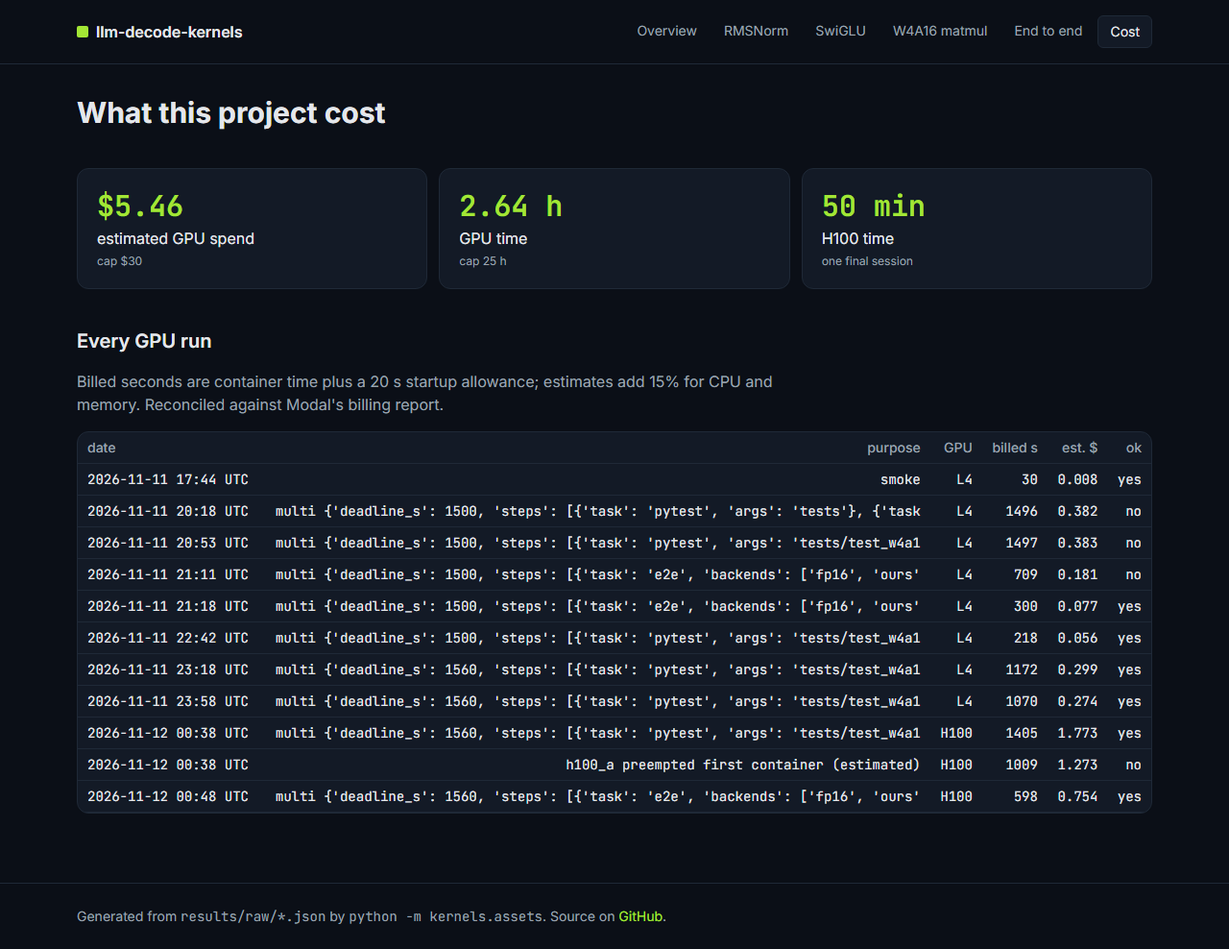
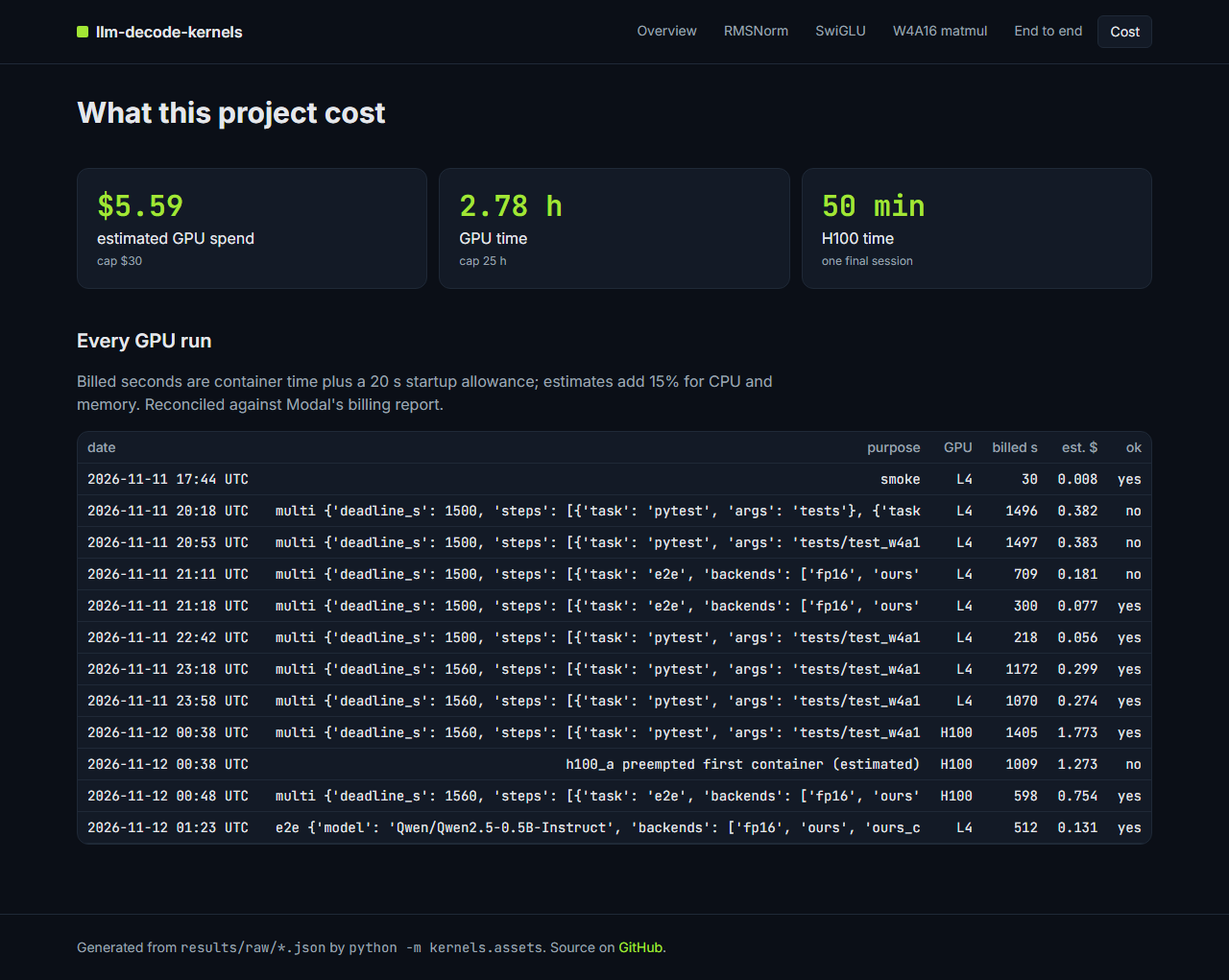
Model-size comparison in README and site (stretch 2)

diff --git a/site/cost.html b/site/cost.html
@@ -31,7 +31,7 @@ tailwind.config = { theme: { extend: {
   </div>
 </header>
 <main class="max-w-6xl mx-auto px-4 py-8 space-y-10">
-<h1 class="text-3xl font-bold">What this project cost</h1><div class="grid sm:grid-cols-3 gap-3"><div class="bg-panel border border-line rounded-xl p-5"><div class="font-mono text-3xl font-semibold text-accent">$5.46</div><div class="mt-1 text-ink">estimated GPU spend</div><div class="mt-1 text-xs text-muted">cap $30</div></div><div class="bg-panel border border-line rounded-xl p-5"><div class="font-mono text-3xl font-semibold text-accent">2.64 h</div><div class="mt-1 text-ink">GPU time</div><div class="mt-1 text-xs text-muted">cap 25 h</div></div><div class="bg-panel border border-line rounded-xl p-5"><div class="font-mono text-3xl font-semibold text-accent">50 min</div><div class="mt-1 text-ink">H100 time</div><div class="mt-1 text-xs text-muted">one final session</div></div></div><section class="space-y-4"><h2 class="text-xl font-semibold">Every GPU run</h2><p class="text-muted max-w-3xl">Billed seconds are container time plus a 20 s startup allowance; estimates add 15% for CPU and memory. Reconciled against Modal's billing report.</p><div class="overflow-x-auto bg-panel border border-line rounded-xl"><table class="w-full text-sm"><thead><tr><th class='text-muted font-medium'>date</th><th class='text-muted font-medium'>purpose</th><th class='text-muted font-medium'>GPU</th><th class='text-muted font-medium'>billed s</th><th class='text-muted font-medium'>est. $</th><th class='text-muted font-medium'>ok</th></tr></thead><tbody><tr><td class='font-mono'>2026-11-11 17:44 UTC</td><td class='font-mono'>smoke</td><td class='font-mono'>L4</td><td class='font-mono'>30</td><td class='font-mono'>0.008</td><td class='font-mono'>yes</td></tr><tr><td class='font-mono'>2026-11-11 20:18 UTC</td><td class='font-mono'>multi {&#x27;deadline_s&#x27;: 1500, &#x27;steps&#x27;: [{&#x27;task&#x27;: &#x27;pytest&#x27;, &#x27;args&#x27;: &#x27;tests&#x27;}, {&#x27;task</td><td class='font-mono'>L4</td><td class='font-mono'>1496</td><td class='font-mono'>0.382</td><td class='font-mono'>no</td></tr><tr><td class='font-mono'>2026-11-11 20:53 UTC</td><td class='font-mono'>multi {&#x27;deadline_s&#x27;: 1500, &#x27;steps&#x27;: [{&#x27;task&#x27;: &#x27;pytest&#x27;, &#x27;args&#x27;: &#x27;tests/test_w4a1</td><td class='font-mono'>L4</td><td class='font-mono'>1497</td><td class='font-mono'>0.383</td><td class='font-mono'>no</td></tr><tr><td class='font-mono'>2026-11-11 21:11 UTC</td><td class='font-mono'>multi {&#x27;deadline_s&#x27;: 1500, &#x27;steps&#x27;: [{&#x27;task&#x27;: &#x27;e2e&#x27;, &#x27;backends&#x27;: [&#x27;fp16&#x27;, &#x27;ours&#x27;</td><td class='font-mono'>L4</td><td class='font-mono'>709</td><td class='font-mono'>0.181</td><td class='font-mono'>no</td></tr><tr><td class='font-mono'>2026-11-11 21:18 UTC</td><td class='font-mono'>multi {&#x27;deadline_s&#x27;: 1500, &#x27;steps&#x27;: [{&#x27;task&#x27;: &#x27;e2e&#x27;, &#x27;backends&#x27;: [&#x27;fp16&#x27;, &#x27;ours&#x27;</td><td class='font-mono'>L4</td><td class='font-mono'>300</td><td class='font-mono'>0.077</td><td class='font-mono'>yes</td></tr><tr><td class='font-mono'>2026-11-11 22:42 UTC</td><td class='font-mono'>multi {&#x27;deadline_s&#x27;: 1500, &#x27;steps&#x27;: [{&#x27;task&#x27;: &#x27;pytest&#x27;, &#x27;args&#x27;: &#x27;tests/test_w4a1</td><td class='font-mono'>L4</td><td class='font-mono'>218</td><td class='font-mono'>0.056</td><td class='font-mono'>yes</td></tr><tr><td class='font-mono'>2026-11-11 23:18 UTC</td><td class='font-mono'>multi {&#x27;deadline_s&#x27;: 1560, &#x27;steps&#x27;: [{&#x27;task&#x27;: &#x27;pytest&#x27;, &#x27;args&#x27;: &#x27;tests/test_w4a1</td><td class='font-mono'>L4</td><td class='font-mono'>1172</td><td class='font-mono'>0.299</td><td class='font-mono'>yes</td></tr><tr><td class='font-mono'>2026-11-11 23:58 UTC</td><td class='font-mono'>multi {&#x27;deadline_s&#x27;: 1560, &#x27;steps&#x27;: [{&#x27;task&#x27;: &#x27;pytest&#x27;, &#x27;args&#x27;: &#x27;tests/test_w4a1</td><td class='font-mono'>L4</td><td class='font-mono'>1070</td><td class='font-mono'>0.274</td><td class='font-mono'>yes</td></tr><tr><td class='font-mono'>2026-11-12 00:38 UTC</td><td class='font-mono'>multi {&#x27;deadline_s&#x27;: 1560, &#x27;steps&#x27;: [{&#x27;task&#x27;: &#x27;pytest&#x27;, &#x27;args&#x27;: &#x27;tests/test_w4a1</td><td class='font-mono'>H100</td><td class='font-mono'>1405</td><td class='font-mono'>1.773</td><td class='font-mono'>yes</td></tr><tr><td class='font-mono'>2026-11-12 00:38 UTC</td><td class='font-mono'>h100_a preempted first container (estimated)</td><td class='font-mono'>H100</td><td class='font-mono'>1009</td><td class='font-mono'>1.273</td><td class='font-mono'>no</td></tr><tr><td class='font-mono'>2026-11-12 00:48 UTC</td><td class='font-mono'>multi {&#x27;deadline_s&#x27;: 1560, &#x27;steps&#x27;: [{&#x27;task&#x27;: &#x27;e2e&#x27;, &#x27;backends&#x27;: [&#x27;fp16&#x27;, &#x27;ours&#x27;</td><td class='font-mono'>H100</td><td class='font-mono'>598</td><td class='font-mono'>0.754</td><td class='font-mono'>yes</td></tr></tbody></table></div></section>
+<h1 class="text-3xl font-bold">What this project cost</h1><div class="grid sm:grid-cols-3 gap-3"><div class="bg-panel border border-line rounded-xl p-5"><div class="font-mono text-3xl font-semibold text-accent">$5.59</div><div class="mt-1 text-ink">estimated GPU spend</div><div class="mt-1 text-xs text-muted">cap $30</div></div><div class="bg-panel border border-line rounded-xl p-5"><div class="font-mono text-3xl font-semibold text-accent">2.78 h</div><div class="mt-1 text-ink">GPU time</div><div class="mt-1 text-xs text-muted">cap 25 h</div></div><div class="bg-panel border border-line rounded-xl p-5"><div class="font-mono text-3xl font-semibold text-accent">50 min</div><div class="mt-1 text-ink">H100 time</div><div class="mt-1 text-xs text-muted">one final session</div></div></div><section class="space-y-4"><h2 class="text-xl font-semibold">Every GPU run</h2><p class="text-muted max-w-3xl">Billed seconds are container time plus a 20 s startup allowance; estimates add 15% for CPU and memory. Reconciled against Modal's billing report.</p><div class="overflow-x-auto bg-panel border border-line rounded-xl"><table class="w-full text-sm"><thead><tr><th class='text-muted font-medium'>date</th><th class='text-muted font-medium'>purpose</th><th class='text-muted font-medium'>GPU</th><th class='text-muted font-medium'>billed s</th><th class='text-muted font-medium'>est. $</th><th class='text-muted font-medium'>ok</th></tr></thead><tbody><tr><td class='font-mono'>2026-11-11 17:44 UTC</td><td class='font-mono'>smoke</td><td class='font-mono'>L4</td><td class='font-mono'>30</td><td class='font-mono'>0.008</td><td class='font-mono'>yes</td></tr><tr><td class='font-mono'>2026-11-11 20:18 UTC</td><td class='font-mono'>multi {&#x27;deadline_s&#x27;: 1500, &#x27;steps&#x27;: [{&#x27;task&#x27;: &#x27;pytest&#x27;, &#x27;args&#x27;: &#x27;tests&#x27;}, {&#x27;task</td><td class='font-mono'>L4</td><td class='font-mono'>1496</td><td class='font-mono'>0.382</td><td class='font-mono'>no</td></tr><tr><td class='font-mono'>2026-11-11 20:53 UTC</td><td class='font-mono'>multi {&#x27;deadline_s&#x27;: 1500, &#x27;steps&#x27;: [{&#x27;task&#x27;: &#x27;pytest&#x27;, &#x27;args&#x27;: &#x27;tests/test_w4a1</td><td class='font-mono'>L4</td><td class='font-mono'>1497</td><td class='font-mono'>0.383</td><td class='font-mono'>no</td></tr><tr><td class='font-mono'>2026-11-11 21:11 UTC</td><td class='font-mono'>multi {&#x27;deadline_s&#x27;: 1500, &#x27;steps&#x27;: [{&#x27;task&#x27;: &#x27;e2e&#x27;, &#x27;backends&#x27;: [&#x27;fp16&#x27;, &#x27;ours&#x27;</td><td class='font-mono'>L4</td><td class='font-mono'>709</td><td class='font-mono'>0.181</td><td class='font-mono'>no</td></tr><tr><td class='font-mono'>2026-11-11 21:18 UTC</td><td class='font-mono'>multi {&#x27;deadline_s&#x27;: 1500, &#x27;steps&#x27;: [{&#x27;task&#x27;: &#x27;e2e&#x27;, &#x27;backends&#x27;: [&#x27;fp16&#x27;, &#x27;ours&#x27;</td><td class='font-mono'>L4</td><td class='font-mono'>300</td><td class='font-mono'>0.077</td><td class='font-mono'>yes</td></tr><tr><td class='font-mono'>2026-11-11 22:42 UTC</td><td class='font-mono'>multi {&#x27;deadline_s&#x27;: 1500, &#x27;steps&#x27;: [{&#x27;task&#x27;: &#x27;pytest&#x27;, &#x27;args&#x27;: &#x27;tests/test_w4a1</td><td class='font-mono'>L4</td><td class='font-mono'>218</td><td class='font-mono'>0.056</td><td class='font-mono'>yes</td></tr><tr><td class='font-mono'>2026-11-11 23:18 UTC</td><td class='font-mono'>multi {&#x27;deadline_s&#x27;: 1560, &#x27;steps&#x27;: [{&#x27;task&#x27;: &#x27;pytest&#x27;, &#x27;args&#x27;: &#x27;tests/test_w4a1</td><td class='font-mono'>L4</td><td class='font-mono'>1172</td><td class='font-mono'>0.299</td><td class='font-mono'>yes</td></tr><tr><td class='font-mono'>2026-11-11 23:58 UTC</td><td class='font-mono'>multi {&#x27;deadline_s&#x27;: 1560, &#x27;steps&#x27;: [{&#x27;task&#x27;: &#x27;pytest&#x27;, &#x27;args&#x27;: &#x27;tests/test_w4a1</td><td class='font-mono'>L4</td><td class='font-mono'>1070</td><td class='font-mono'>0.274</td><td class='font-mono'>yes</td></tr><tr><td class='font-mono'>2026-11-12 00:38 UTC</td><td class='font-mono'>multi {&#x27;deadline_s&#x27;: 1560, &#x27;steps&#x27;: [{&#x27;task&#x27;: &#x27;pytest&#x27;, &#x27;args&#x27;: &#x27;tests/test_w4a1</td><td class='font-mono'>H100</td><td class='font-mono'>1405</td><td class='font-mono'>1.773</td><td class='font-mono'>yes</td></tr><tr><td class='font-mono'>2026-11-12 00:38 UTC</td><td class='font-mono'>h100_a preempted first container (estimated)</td><td class='font-mono'>H100</td><td class='font-mono'>1009</td><td class='font-mono'>1.273</td><td class='font-mono'>no</td></tr><tr><td class='font-mono'>2026-11-12 00:48 UTC</td><td class='font-mono'>multi {&#x27;deadline_s&#x27;: 1560, &#x27;steps&#x27;: [{&#x27;task&#x27;: &#x27;e2e&#x27;, &#x27;backends&#x27;: [&#x27;fp16&#x27;, &#x27;ours&#x27;</td><td class='font-mono'>H100</td><td class='font-mono'>598</td><td class='font-mono'>0.754</td><td class='font-mono'>yes</td></tr><tr><td class='font-mono'>2026-11-12 01:23 UTC</td><td class='font-mono'>e2e {&#x27;model&#x27;: &#x27;Qwen/Qwen2.5-0.5B-Instruct&#x27;, &#x27;backends&#x27;: [&#x27;fp16&#x27;, &#x27;ours&#x27;, &#x27;ours_c</td><td class='font-mono'>L4</td><td class='font-mono'>512</td><td class='font-mono'>0.131</td><td class='font-mono'>yes</td></tr></tbody></table></div></section>
 </main>
 <footer class="border-t border-line mt-10">
   <div class="max-w-6xl mx-auto px-4 py-6 text-sm text-muted">

diff --git a/site/e2e.html b/site/e2e.html
@@ -31,7 +31,7 @@ tailwind.config = { theme: { extend: {
   </div>
 </header>
 <main class="max-w-6xl mx-auto px-4 py-8 space-y-10">
-<h1 class="text-3xl font-bold">End to end: Qwen2.5-1.5B-Instruct</h1><p class="text-muted max-w-3xl">All attention and MLP projections use round-to-nearest 4-bit weights (group 128) and our kernels. Embeddings, lm_head, attention (SDPA) and RoPE stay in fp16 on both sides. Both sides run the same small runner under CUDA graphs with a static KV cache, so the only difference is the kernels.</p><section class="space-y-4"><h2 class="text-xl font-semibold">Decode speed</h2><figure class="chart"><a href="charts/decode_tokens.png"><img src="charts/decode_tokens.svg" alt="decode tokens/s"></a></figure></section><section class="space-y-4"><h2 class="text-xl font-semibold">Where a decode token&#x27;s time goes</h2><p class="text-muted max-w-3xl">The swapped layers are timed alone in their own CUDA graph; the rest is the full step minus that. The fp16 lm_head (151936 x 1536) alone reads 0.47 GB per token, so it becomes the next thing to fix.</p><figure class="chart"><a href="charts/decode_breakdown.png"><img src="charts/decode_breakdown.svg" alt="breakdown"></a></figure></section><section class="space-y-4"><h2 class="text-xl font-semibold">L4</h2><div class="overflow-x-auto bg-panel border border-line rounded-xl"><table class="w-full text-sm"><thead><tr><th class='text-muted font-medium'>backend</th><th class='text-muted font-medium'>decode tok/s</th><th class='text-muted font-medium'>swapped layers ms/token</th><th class='text-muted font-medium'>prefill tok/s (T: tok/s)</th><th class='text-muted font-medium'>WikiText-2 ppl</th><th class='text-muted font-medium'>linear weights GB</th></tr></thead><tbody><tr><td class='font-mono'>fp16</td><td class='font-mono'>59.5</td><td class='font-mono'>11.36</td><td class='font-mono'>128: 5743, 512: 11782, 2048: 12409</td><td class='font-mono'>10.654</td><td class='font-mono'>2.62</td></tr><tr><td class='font-mono'>ours</td><td class='font-mono'>118.2</td><td class='font-mono'>3.28</td><td class='font-mono'>128: 7683, 512: 11573, 2048: 12346</td><td class='font-mono'>11.900</td><td class='font-mono'>0.70</td></tr><tr><td class='font-mono'>ours_cuda</td><td class='font-mono'>114.4</td><td class='font-mono'>3.62</td><td class='font-mono'>128: 7650, 512: 11545, 2048: 12262</td><td class='font-mono'>11.900</td><td class='font-mono'>0.70</td></tr><tr><td class='font-mono'>w4_ref</td><td class='font-mono'>-</td><td class='font-mono'>-</td><td class='font-mono'>-</td><td class='font-mono'>11.901</td><td class='font-mono'>0.70</td></tr></tbody></table></div></section><p class="text-sm text-muted">Runner check against Hugging Face: max abs logit difference 0.034 on the prompt; perplexity 10.654 vs HF 10.654. Greedy tokens are identical for the first 14 of 32 steps, then a near-tie flips and the texts drift apart (expected from fp16 rounding order).</p><section class="space-y-4"><h2 class="text-xl font-semibold">Greedy outputs (L4)</h2><p class="text-muted max-w-3xl">Greedy decoding, cut at 64 new tokens. The 1.5B model gets dates wrong in both versions; 4-bit changes the wording, not the gist.</p><div class="space-y-3"><div class="bg-panel border border-line rounded-xl p-4 space-y-3"><div class="text-sm text-muted">Explain in two sentences why LLM decoding is memory-bound.</div><div class="grid md:grid-cols-2 gap-3 text-sm"><div><div class="text-xs text-muted mb-1">fp16</div>LLM decoding is memory-bound because it requires processing large amounts of data, which is stored in memory, to generate the output. The more data that needs to be processed, the more memory is required, and the longer it takes to decode the output.</div><div><div class="text-xs text-accent mb-1">4-bit, our kernels</div>LLM decoding is memory-bound because it requires the model to maintain and utilize a large amount of information to generate text, making it computationally expensive and memory-intensive. This is because the model must store and recall a vast amount of data to produce the desired output, which limits its scalability and efficiency.</div></div></div><div class="bg-panel border border-line rounded-xl p-4 space-y-3"><div class="text-sm text-muted">Write a haiku about a GPU that runs out of memory.</div><div class="grid md:grid-cols-2 gap-3 text-sm"><div><div class="text-xs text-muted mb-1">fp16</div>GPU cries in vain,
+<h1 class="text-3xl font-bold">End to end: Qwen2.5-1.5B-Instruct</h1><p class="text-muted max-w-3xl">All attention and MLP projections use round-to-nearest 4-bit weights (group 128) and our kernels. Embeddings, lm_head, attention (SDPA) and RoPE stay in fp16 on both sides. Both sides run the same small runner under CUDA graphs with a static KV cache, so the only difference is the kernels.</p><section class="space-y-4"><h2 class="text-xl font-semibold">Decode speed</h2><figure class="chart"><a href="charts/decode_tokens.png"><img src="charts/decode_tokens.svg" alt="decode tokens/s"></a></figure></section><section class="space-y-4"><h2 class="text-xl font-semibold">Model size (L4)</h2><p class="text-muted max-w-3xl">On the smaller model the fp16 lm_head is a bigger share of each token, so the same kernels help less, and round-to-nearest 4-bit costs more quality.</p><div class="overflow-x-auto bg-panel border border-line rounded-xl"><table class="w-full text-sm"><thead><tr><th class='text-muted font-medium'>model</th><th class='text-muted font-medium'>fp16 tok/s</th><th class='text-muted font-medium'>ours tok/s</th><th class='text-muted font-medium'>speedup</th><th class='text-muted font-medium'>fp16 ppl</th><th class='text-muted font-medium'>4-bit ppl</th></tr></thead><tbody><tr><td class='font-mono'>Qwen2.5-0.5B-Instruct</td><td class='font-mono'>128.4</td><td class='font-mono'>178.8</td><td class='font-mono'>1.39x</td><td class='font-mono'>15.79</td><td class='font-mono'>19.09</td></tr><tr><td class='font-mono'>Qwen2.5-1.5B-Instruct</td><td class='font-mono'>59.5</td><td class='font-mono'>118.2</td><td class='font-mono'>1.99x</td><td class='font-mono'>10.65</td><td class='font-mono'>11.90</td></tr></tbody></table></div></section><section class="space-y-4"><h2 class="text-xl font-semibold">Where a decode token&#x27;s time goes</h2><p class="text-muted max-w-3xl">The swapped layers are timed alone in their own CUDA graph; the rest is the full step minus that. The fp16 lm_head (151936 x 1536) alone reads 0.47 GB per token, so it becomes the next thing to fix.</p><figure class="chart"><a href="charts/decode_breakdown.png"><img src="charts/decode_breakdown.svg" alt="breakdown"></a></figure></section><section class="space-y-4"><h2 class="text-xl font-semibold">L4</h2><div class="overflow-x-auto bg-panel border border-line rounded-xl"><table class="w-full text-sm"><thead><tr><th class='text-muted font-medium'>backend</th><th class='text-muted font-medium'>decode tok/s</th><th class='text-muted font-medium'>swapped layers ms/token</th><th class='text-muted font-medium'>prefill tok/s (T: tok/s)</th><th class='text-muted font-medium'>WikiText-2 ppl</th><th class='text-muted font-medium'>linear weights GB</th></tr></thead><tbody><tr><td class='font-mono'>fp16</td><td class='font-mono'>59.5</td><td class='font-mono'>11.36</td><td class='font-mono'>128: 5743, 512: 11782, 2048: 12409</td><td class='font-mono'>10.654</td><td class='font-mono'>2.62</td></tr><tr><td class='font-mono'>ours</td><td class='font-mono'>118.2</td><td class='font-mono'>3.28</td><td class='font-mono'>128: 7683, 512: 11573, 2048: 12346</td><td class='font-mono'>11.900</td><td class='font-mono'>0.70</td></tr><tr><td class='font-mono'>ours_cuda</td><td class='font-mono'>114.4</td><td class='font-mono'>3.62</td><td class='font-mono'>128: 7650, 512: 11545, 2048: 12262</td><td class='font-mono'>11.900</td><td class='font-mono'>0.70</td></tr><tr><td class='font-mono'>w4_ref</td><td class='font-mono'>-</td><td class='font-mono'>-</td><td class='font-mono'>-</td><td class='font-mono'>11.901</td><td class='font-mono'>0.70</td></tr></tbody></table></div></section><p class="text-sm text-muted">Runner check against Hugging Face: max abs logit difference 0.034 on the prompt; perplexity 10.654 vs HF 10.654. Greedy tokens are identical for the first 14 of 32 steps, then a near-tie flips and the texts drift apart (expected from fp16 rounding order).</p><section class="space-y-4"><h2 class="text-xl font-semibold">Greedy outputs (L4)</h2><p class="text-muted max-w-3xl">Greedy decoding, cut at 64 new tokens. The 1.5B model gets dates wrong in both versions; 4-bit changes the wording, not the gist.</p><div class="space-y-3"><div class="bg-panel border border-line rounded-xl p-4 space-y-3"><div class="text-sm text-muted">Explain in two sentences why LLM decoding is memory-bound.</div><div class="grid md:grid-cols-2 gap-3 text-sm"><div><div class="text-xs text-muted mb-1">fp16</div>LLM decoding is memory-bound because it requires processing large amounts of data, which is stored in memory, to generate the output. The more data that needs to be processed, the more memory is required, and the longer it takes to decode the output.</div><div><div class="text-xs text-accent mb-1">4-bit, our kernels</div>LLM decoding is memory-bound because it requires the model to maintain and utilize a large amount of information to generate text, making it computationally expensive and memory-intensive. This is because the model must store and recall a vast amount of data to produce the desired output, which limits its scalability and efficiency.</div></div></div><div class="bg-panel border border-line rounded-xl p-4 space-y-3"><div class="text-sm text-muted">Write a haiku about a GPU that runs out of memory.</div><div class="grid md:grid-cols-2 gap-3 text-sm"><div><div class="text-xs text-muted mb-1">fp16</div>GPU cries in vain,
 Memory exhausted, no more,
 Silence fills the space.</div><div><div class="text-xs text-accent mb-1">4-bit, our kernels</div>GPU cries in vain,
 Memory&#x27;s limit reached,

diff --git a/site/index.html b/site/index.html
@@ -37,7 +37,7 @@ tailwind.config = { theme: { extend: {
   <p class="text-muted max-w-3xl text-lg">Fused RMSNorm, fused SwiGLU, and a 4-bit weight matmul in
   Triton, plus a CUDA C++ version of the decode matmul. Each one is tested against PyTorch,
   measured against the GPU's limits, and swapped into Qwen2.5-1.5B.</p>
-  <div class="grid grid-cols-1 sm:grid-cols-2 lg:grid-cols-5 gap-3"><div class="bg-panel border border-line rounded-xl p-5"><div class="font-mono text-3xl font-semibold text-accent">82%</div><div class="mt-1 text-ink">of L4 peak bandwidth</div><div class="mt-1 text-xs text-muted">W4A16 Triton, batch 1, Qwen gate_up 17920x1536</div></div><div class="bg-panel border border-line rounded-xl p-5"><div class="font-mono text-3xl font-semibold text-accent">1.99x</div><div class="mt-1 text-ink">decode tokens/s vs fp16</div><div class="mt-1 text-xs text-muted">Qwen2.5-1.5B, L4, 118 vs 60 tok/s</div></div><div class="bg-panel border border-line rounded-xl p-5"><div class="font-mono text-3xl font-semibold text-accent">3.8x</div><div class="mt-1 text-ink">smaller linear-layer weights</div><div class="mt-1 text-xs text-muted">2.62 GB fp16 -&gt; 0.70 GB 4-bit</div></div><div class="bg-panel border border-line rounded-xl p-5"><div class="font-mono text-3xl font-semibold text-accent">+1.25</div><div class="mt-1 text-ink">WikiText-2 perplexity</div><div class="mt-1 text-xs text-muted">10.65 fp16 -&gt; 11.90 RTN 4-bit</div></div><div class="bg-panel border border-line rounded-xl p-5"><div class="font-mono text-3xl font-semibold text-accent">$5.46</div><div class="mt-1 text-ink">total GPU spend (est.)</div><div class="mt-1 text-xs text-muted">2.64 GPU-hours on Modal</div></div></div>
+  <div class="grid grid-cols-1 sm:grid-cols-2 lg:grid-cols-5 gap-3"><div class="bg-panel border border-line rounded-xl p-5"><div class="font-mono text-3xl font-semibold text-accent">82%</div><div class="mt-1 text-ink">of L4 peak bandwidth</div><div class="mt-1 text-xs text-muted">W4A16 Triton, batch 1, Qwen gate_up 17920x1536</div></div><div class="bg-panel border border-line rounded-xl p-5"><div class="font-mono text-3xl font-semibold text-accent">1.99x</div><div class="mt-1 text-ink">decode tokens/s vs fp16</div><div class="mt-1 text-xs text-muted">Qwen2.5-1.5B, L4, 118 vs 60 tok/s</div></div><div class="bg-panel border border-line rounded-xl p-5"><div class="font-mono text-3xl font-semibold text-accent">3.8x</div><div class="mt-1 text-ink">smaller linear-layer weights</div><div class="mt-1 text-xs text-muted">2.62 GB fp16 -&gt; 0.70 GB 4-bit</div></div><div class="bg-panel border border-line rounded-xl p-5"><div class="font-mono text-3xl font-semibold text-accent">+1.25</div><div class="mt-1 text-ink">WikiText-2 perplexity</div><div class="mt-1 text-xs text-muted">10.65 fp16 -&gt; 11.90 RTN 4-bit</div></div><div class="bg-panel border border-line rounded-xl p-5"><div class="font-mono text-3xl font-semibold text-accent">$5.59</div><div class="mt-1 text-ink">total GPU spend (est.)</div><div class="mt-1 text-xs text-muted">2.78 GPU-hours on Modal</div></div></div>
 </section><section class="space-y-4"><h2 class="text-xl font-semibold">How the 4-bit matmul works</h2><div class="bg-panel border border-line rounded-xl overflow-hidden"><iframe src="explainer.html?embed" title="W4A16 explainer" class="w-full" style="aspect-ratio: 16/9.6; border:0"></iframe></div></section><section class="space-y-4"><h2 class="text-xl font-semibold">End to end</h2><figure class="chart"><a href="charts/decode_tokens.png"><img src="charts/decode_tokens.svg" alt="Decode tokens per second"></a></figure></section><section class="space-y-4"><h2 class="text-xl font-semibold">Results on L4</h2><div class="grid md:grid-cols-2 gap-4"><figure class="chart"><a href="charts/speedup_w4a16_l4.png"><img src="charts/speedup_w4a16_l4.svg" alt="W4A16 speedup"></a></figure><figure class="chart"><a href="charts/roofline_l4.png"><img src="charts/roofline_l4.svg" alt="Roofline"></a></figure><figure class="chart"><a href="charts/bandwidth_l4.png"><img src="charts/bandwidth_l4.svg" alt="Bandwidth"></a></figure><figure class="chart"><a href="charts/triton_vs_cuda_l4.png"><img src="charts/triton_vs_cuda_l4.svg" alt="Triton vs CUDA"></a></figure></div></section><section class="space-y-4"><h2 class="text-xl font-semibold">Results on H100</h2><div class="grid md:grid-cols-2 gap-4"><figure class="chart"><a href="charts/speedup_w4a16_h100.png"><img src="charts/speedup_w4a16_h100.svg" alt="W4A16 speedup"></a></figure><figure class="chart"><a href="charts/roofline_h100.png"><img src="charts/roofline_h100.svg" alt="Roofline"></a></figure><figure class="chart"><a href="charts/bandwidth_h100.png"><img src="charts/bandwidth_h100.svg" alt="Bandwidth"></a></figure><figure class="chart"><a href="charts/triton_vs_cuda_h100.png"><img src="charts/triton_vs_cuda_h100.svg" alt="Triton vs CUDA"></a></figure></div></section>
 </main>
 <footer class="border-t border-line mt-10">

diff --git a/kernels/assets/readme.py b/kernels/assets/readme.py
@@ -90,6 +90,27 @@ def e2e_table(e2e) -> str:
     return "\n".join(lines)
 
 
+MODELS = ["Qwen/Qwen2.5-0.5B-Instruct", "Qwen/Qwen2.5-1.5B-Instruct"]
+
+
+def sizes_table() -> str:
+    """Decode speedup vs model size on L4: the bigger the share of linear-layer bytes per token,
+    the more the 4-bit kernels help."""
+    lines = ["| Model (L4, batch 1) | fp16 tok/s | ours tok/s | Speedup | Swapped layers speedup | "
+             "fp16 ppl | 4-bit ppl |", "|---|---|---|---|---|---|---|"]
+    for m in MODELS:
+        res = data.e2e_results(m).get("L4")
+        if not res or "ours" not in res["backends"]:
+            continue
+        f, o = res["backends"]["fp16"], res["backends"]["ours"]
+        lines.append(f"| {m.split('/')[-1]} | {f['decode']['tok_s']:.1f} | "
+                     f"{o['decode']['tok_s']:.1f} | "
+                     f"{o['decode']['tok_s'] / f['decode']['tok_s']:.2f}x | "
+                     f"{f['layers_only_ms'] / o['layers_only_ms']:.1f}x | {f['ppl']:.2f} | "
+                     f"{o['ppl']:.2f} |")
+    return "\n".join(lines)
+
+
 def cost() -> str:
     t = ledger.totals()
     return (f"Total GPU time: **{t['gpu_hours']:.2f} GPU-hours**, estimated **${t['usd']:.2f}** "
@@ -111,6 +132,7 @@ def build() -> str:
     rows, e2e = data.bench_rows(), data.e2e_results()
     blocks = {"headline": headline(rows, e2e), "kernels": kernel_table(rows),
               "w4a16": w4_table(rows), "e2e": e2e_table(e2e), "cost": cost(),
+              "sizes": sizes_table(),
               "spread": spread_note(rows)}
     text = README.read_text(encoding="utf-8")
     for name, body in blocks.items():

diff --git a/kernels/assets/site.py b/kernels/assets/site.py
@@ -320,6 +320,20 @@ def page_e2e(e2e):
              '(SDPA) and RoPE stay in fp16 on both sides. Both sides run the same small runner '
              'under CUDA graphs with a static KV cache, so the only difference is the kernels.</p>')
     body += section("Decode speed", chart("decode_tokens", "decode tokens/s"))
+    size_rows = []
+    for m in ("Qwen/Qwen2.5-0.5B-Instruct", "Qwen/Qwen2.5-1.5B-Instruct"):
+        res = data.e2e_results(m).get("L4")
+        if res and "ours" in res["backends"]:
+            f, o = res["backends"]["fp16"], res["backends"]["ours"]
+            size_rows.append([esc(m.split("/")[-1]), f"{f['decode']['tok_s']:.1f}",
+                              f"{o['decode']['tok_s']:.1f}",
+                              f"{o['decode']['tok_s'] / f['decode']['tok_s']:.2f}x",
+                              f"{f['ppl']:.2f}", f"{o['ppl']:.2f}"])
+    if len(size_rows) > 1:
+        body += section("Model size (L4)", table(
+            ["model", "fp16 tok/s", "ours tok/s", "speedup", "fp16 ppl", "4-bit ppl"], size_rows),
+            "On the smaller model the fp16 lm_head is a bigger share of each token, so the same "
+            "kernels help less, and round-to-nearest 4-bit costs more quality.")
     body += section("Where a decode token's time goes", chart("decode_breakdown", "breakdown"),
                     "The swapped layers are timed alone in their own CUDA graph; the rest is the "
                     "full step minus that. The fp16 lm_head (151936 x 1536) alone reads 0.47 GB "

diff --git a/README.md b/README.md
@@ -57,6 +57,19 @@ More charts, per-kernel pages, profiler output and the H100 results are on the r
 | H100 | w4_ref | - | - | - | 11.901 | 0.70 GB |
 <!-- /gen:e2e -->
 
+### Model size
+
+The end-to-end gain depends on how much of each token's reads are the swapped layers. On a
+smaller model the fp16 `lm_head` is a bigger share, so the same kernels help less, and 4-bit
+round-to-nearest costs more quality.
+
+<!-- gen:sizes -->
+| Model (L4, batch 1) | fp16 tok/s | ours tok/s | Speedup | Swapped layers speedup | fp16 ppl | 4-bit ppl |
+|---|---|---|---|---|---|---|
+| Qwen2.5-0.5B-Instruct | 128.4 | 178.8 | 1.39x | 3.0x | 15.79 | 19.09 |
+| Qwen2.5-1.5B-Instruct | 59.5 | 118.2 | 1.99x | 3.5x | 10.65 | 11.90 |
+<!-- /gen:sizes -->
+
 ### 4-bit matmul (W4A16)
 
 <!-- gen:w4a16 -->
@@ -107,7 +120,7 @@ Median spread between the 3 sweeps: 0.3%. 2 of 748 measurements spread more than
 ### Cost
 
 <!-- gen:cost -->
-Total GPU time: **2.64 GPU-hours**, estimated **$5.46** (cap $30), of which H100: 50 min. Every run is in [docs/GPU_LEDGER.md](docs/GPU_LEDGER.md).
+Total GPU time: **2.78 GPU-hours**, estimated **$5.59** (cap $30), of which H100: 50 min. Every run is in [docs/GPU_LEDGER.md](docs/GPU_LEDGER.md).
 <!-- /gen:cost -->
 
 ## Quickstart
